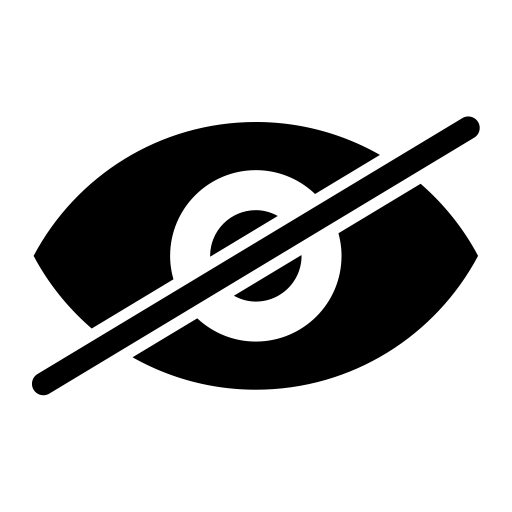
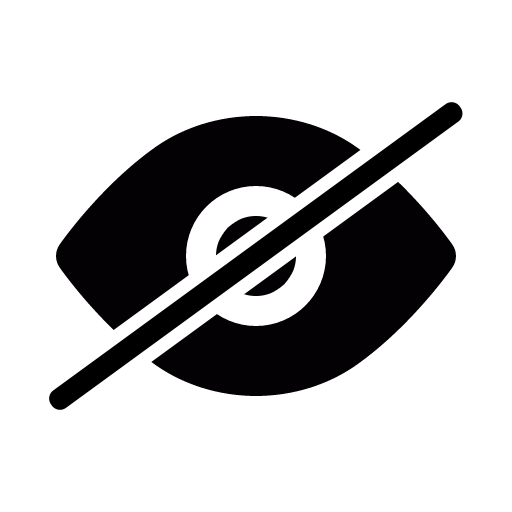
image

diff --git a/Common/Resources/Styles.xaml b/Common/Resources/Styles.xaml
@@ -1810,8 +1810,8 @@
             <Setter.Value>
                 <ControlTemplate TargetType="{x:Type ctrl:EyeToggleButton}">
                     <Grid Width="20" Height="20" Background="Transparent">
-                        <Image x:Name="hide" Width="16" Height="14" Source="../Resources/Images/eye_hidden.png" Stretch="Fill"/>
-                        <Image x:Name="show" Width="16" Height="14" Source="../Resources/Images/eye_show.png" Stretch="Fill" Opacity="0"/>
+                        <Image x:Name="hide" Width="16" Height="14" Source="../Resources/Images/pw_hide.png" Stretch="Fill"/>
+                        <Image x:Name="show" Width="16" Height="14" Source="../Resources/Images/pw_show.png" Stretch="Fill" Opacity="0"/>
                     </Grid>
                     <ControlTemplate.Triggers>
                         <Trigger Property="IsChecked" Value="True">
